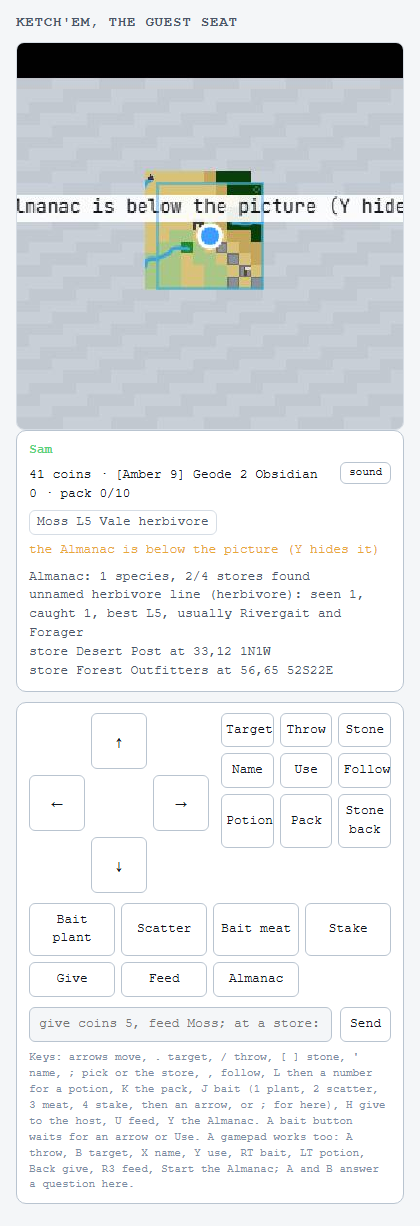
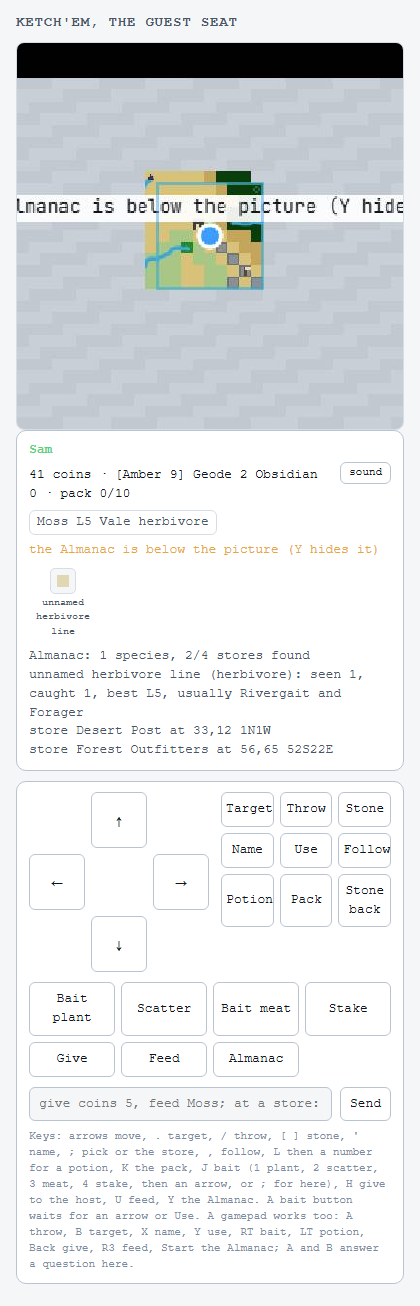
Ketch'em the Almanac's drawings on the guest's screen, and a test that the served guest page parses

diff --git a/src/main.js b/src/main.js
@@ -30,7 +30,7 @@ import { newPlayer, tryStep, strideStep, interact } from './ketchem/controls.js'
 import { initEncounters, initPlayer, encounterTick, targetsNear, throwStone, placeBait, pickPlant, nameCatch, freeName, freeSpeciesName, follow, recall, drainNews, news as pushNews } from './ketchem/encounter.js';
 import { initStores, marketTick, storeAt, shopLists, creatureCard, buy as buyItem, sell as sellItem, box as boxItem, giveSaid, usePotion, almanacLists, almanacText, packSummary, POTIONS } from './ketchem/market.js';
 import { storePanel, almanacPanel, closePanel, panelOpen, panelMode } from './ketchem/panel.js';
-import { hudTick } from './ketchem/hud.js';
+import { hudTick, drawGlyph } from './ketchem/hud.js';
 import { ask, asking, closeAsk, askWho, answerAsk } from './ketchem/ask.js';
 import { padPressed, padEdges, padKey, padArrowUp, PAD_PICK, START as PAD_START } from './ketchem/pad.js';
 import { guestSeated, seatName, seatGuest, unseatGuest } from './ketchem/guest.js';
@@ -991,7 +991,16 @@ function guestFrame(){   // their corner of the world: 33 x 33 tiles around them
 function guestState(){
   if(!guestSeated(K))return {name:null};var g=K.root,ps=packSummary(g);
   return {name:g.display,wallet:g.wallet,stones:g.stones,stone:g.stone,pack:ps.used+'/'+ps.cap,party:g.party.map(function(c){var k=creatureCard(c);return k.name+' L'+k.level+' '+k.elemental+' '+k.type;}),
-    msg:g.msg&&g.msgUntil>Date.now()?g.msg:'',store:guestStore(g),sounds:_gSounds,soundEpoch:_gSoundEpoch,almanac:_gAlmanac?almanacText(K,g):''};
+    msg:g.msg&&g.msgUntil>Date.now()?g.msg:'',store:guestStore(g),sounds:_gSounds,soundEpoch:_gSoundEpoch,almanac:_gAlmanac?almanacText(K,g):'',almanacGlyphs:_gAlmanac?almanacGlyphs():null};
+}
+// The Almanac's drawings for a guest on another screen: each species drawn as the panel draws it, as a small PNG, made
+// once per drawing (the cache is keyed by what the drawing depends on) and sent only while their Almanac is open.
+var _glyphPng=new Map(),_glyphCanvas=null;
+function almanacGlyphs(){
+  if(!_glyphCanvas){_glyphCanvas=document.createElement('canvas');_glyphCanvas.width=_glyphCanvas.height=26;}
+  return almanacLists(K,K.root).species.filter(function(e){return e.glyph;}).map(function(e){var key=JSON.stringify(e.glyph),src=_glyphPng.get(key);
+    if(!src){drawGlyph(_glyphCanvas,e.glyph,13);src=_glyphCanvas.toDataURL('image/png');if(_glyphPng.size>500)_glyphPng.clear();_glyphPng.set(key,src);}
+    return {name:e.nickname||e.scientific||('unnamed '+e.type+' line'),caught:e.caught,src:src};});
 }
 // What a guest on another screen hears: the sounds in their sight, checked every tick (a sound's window is a few ticks;
 // the link only posts five times a second), kept as the last eight with rising numbers.

diff --git a/visit/guest-link.test.js b/visit/guest-link.test.js
@@ -34,6 +34,12 @@ describe('the guest link', () => {
     expect(js).toContain('export function play'); expect(js).not.toMatch(/^import /m);
     expect(await (await fetch(guest + '/')).text()).toContain("from '/synth.js'");
   });
+  it('the guest page scripts parse (an escape the page template swallows would break the whole page)', async () => {
+    const page = await (await fetch(guest + '/')).text();
+    const classic = page.split('<script>')[1].split('</script>')[0];
+    const mod = page.split('<script type="module">')[1].split('</script>')[0].replace(/^import .*$/gm, '');
+    expect(() => new Function(classic)).not.toThrow(); expect(() => new Function(mod)).not.toThrow();
+  });
   it('the guest port has no host side', async () => {
     expect((await jpost(guest, '/host/open', { code: '123456' })).status).toBe(404);
   });

diff --git a/docs/04 Handoffs/2026-10-24 Ketch'em build handoff.md b/docs/04 Handoffs/2026-10-24 Ketch'em build handoff.md
@@ -101,6 +101,7 @@ public site, trading between saves.
   Critic (Sonnet): growl missing from oddsOf (fixed), hash contradicted 5.2 (fixed as above), fallbacks for missing maxAge / maxEnergy now mirror visit.js creatureCode, table lookups guarded with Object.hasOwn. For later steps: `oddsOf` answers for a fled creature too; the encounter machine must refuse the throw.
 - 2026-10-24 · step 3 (`src/ketchem/board.js` + `fog.js` + `render.js` + `board.worker.js`, two `drawWorld` hooks, `?ketchem=` boot path and `window.__wb.ketchem` in main.js, `scripts/ketchem-boards.mjs`; sim: `landCoverage` cached per genesis loop and `computeAridity` / `computeWaterDist` on index queues, byte-identical by fingerprint and by the harness; `seedLifeAt` and Root's `plant` refuse road tiles; flora cleared off roads and around stores at build) · gate GREEN (typecheck, lint 0 errors, full suite incl. 16 board tests, build) · harness = C2 baseline exactly · budget: continent mean 13.2 s / worst 19.3 s (10 seeds), archipelago at 45-60% land mean 11.4 s / worst 23.5 s under load (20 seeds, **9 island-store boards** by the sea-only metric), highlands mean 14.7 s (10 seeds; standalone 95% land 17-19 s): live generation, no pre-baked boards · **changed default for the owner: Archipelago land 45-60%, not 60-75%** (mechanics 15.1 note) · screenshots in `docs/04 Handoffs/img/2026-10-24-ketchem-step3/` · commit: see git log
   Spec readings recorded in the mechanics file (14.3-14.6, 15.1, 15.2, 16). Caught by the tests before shipping: a per-branch signpost search leaked diagonally into the next branch (8-connected roads), and a store revealed by the road rule counted as a road sighting for the next store, cascading reveals across the map. Open for step 4: the Hand is still on under fog; the fog is shared but nothing moves yet; store names are `<Biome> <Post>` with Post rotating by store index; signposts at a doorstep with only spurs beyond read empty (tooltip says "no stores this way").
+- 2026-10-27 · the Almanac's drawings on the guest's screen (mechanics 26) · gate GREEN (289/289, lint 0 errors, build) · rehearse15 38/38, adversary 0 · a parse test for the served guest page · not deployed · commit: see git log
 - 2026-10-27 · the guest's screen: sound and a store of buttons (mechanics 26; `src/ketchem/synth.js`) · gate GREEN (288/288, lint 0 errors, build) · rehearse15 37/37, rehearse16 21/21, rehearse14 35/35, adversary 0, fuzz seed 211 clean · not deployed · commit: see git log
   Critic (Sonnet), 0 blockers + 6 risks (sounds at speed, stale sounds, lost taps, look-alike buttons, touch audio, dead state), all taken.
 - 2026-10-27 · saves, the rest of 18.2 (Root's save / save as, autosave when Root leaves, the mirror delete, never-overwrite naming) · gate GREEN (284/284, lint 0 errors, build) · rehearse17 11/11 on a scratch relay · not deployed · commit: see git log

diff --git a/docs/02 Code/CodeMap.md b/docs/02 Code/CodeMap.md
@@ -2,6 +2,8 @@
 
 > 2026-10-25: Ketch'em step 9, the pen. In `growth.js`: `breedFee`, `offspringGenome` (midpoints with drift from `K.rng`, means, one parent's colour, vivid odds, gen + 1, the first parent's lineage), `breed(K, p, aName, bName)` (store tile, one kind, cooldown `bredAt`, the fee, `makeFauna` with the genome, into the cabinet, `p.naming`, the `bred` variant, a `bred` effect). `market.js` `shopLists` adds `pen` and `fee`; `panel.js` has the PEN tab (two checkboxes, the fee, Breed). `main.js` `acts.breed`; `src/visit.js` `breed` verb; `visit/modes.mjs` lists it. Test in `growth.test.js`.
 
+> 2026-10-27: Ketch'em the Almanac's drawings for a remote guest. `main.js`: `almanacGlyphs()` (each species' glyph drawn by hud.js `drawGlyph` into a 26 px canvas, PNG cached by the glyph's JSON), `guestState.almanacGlyphs` while their Almanac is open. `visit/guest-link.mjs`: `#almG` figures, `drawGlyphs(list)` (PNG data URLs only). `guest-link.test.js`: the served page's classic and module scripts must parse.
+
 > 2026-10-27: Ketch'em the guest's screen (mechanics 26). `src/ketchem/synth.js` (no imports): `audio`, `SOUNDS`, `play(name)`. `sound.js`: imports synth; `soundFor(K, e, t, p)`, `soundsDue(K, listeners, doneSet)`, `screenListeners(K)` (Kevin + a guest at this screen); `soundTick` uses both. `main.js`: `queueGuestSounds()` each loop tick (remote guest, own WeakSet, last eight numbered), `_gSoundEpoch`; `guestState` sends `store: guestStore(g)` (lists with `named`), `sounds`, `soundEpoch` (the shop text is gone). `visit/guest-link.mjs`: serves `/synth.js`; the page's `#snd` switch, `hearSounds(state)` / `resetSounds`, `drawStore` (rows keyed by label / button / command, numbers updated in place). Tests `guest.test.js` +3, `guest-link.test.js` +1.
 
 > 2026-10-27: Ketch'em saves, the rest of 18.2. `visit/modes.mjs`: the ketchem `save` tool (`as`); `visit/briefs/ketchem.md` a saves line. `src/visit.js`: case 'save' -> `hooks.ketchem.save(as)`; `depart` saves a named board after a Ketch'em visit; `mirrorSlots()` (GET /page/slots), `mirrorDelete(slot)`. `visit/relay.mjs`: POST /page/save/delete (slotFile-checked, stale-checked). `main.js`: `rootSave(as)` (refuses an unnamed plain save, a taken name, a save in flight; restores the name on a failed write), `slotTaken(n, mine)` (IndexedDB + mirror, case-blind), `slotName` adds " game" to Windows' reserved names, Kevin's first save checks the name, F9 delete calls `mirrorDelete`. Tests `visit.test.js` +1 expectation; `scripts/rehearsals/rehearse17.mjs`.

diff --git a/docs/02 Code/Engineering Lessons.md b/docs/02 Code/Engineering Lessons.md
@@ -13,6 +13,8 @@ Durable, reusable gotchas specific to Worldbuilder. Format: rule + why + Verifie
 
 - **An id counter rebuilt from one list forgets everything that lives outside it; prove a game with invariants, not with eyes.** The loader reconciled the creature-id counter from the wild fauna list, so after a load the next wild birth reused the id of a creature carried in a party, the cabinet or a bait: the wrong creature got named or followed. No rehearsal saw it; a scripted hostile playthrough with a per-scene invariant check (each creature in exactly one place, prompts point at owned creatures, holds have a reason, wallet finite) found it in one run. Rule: when state can leave a collection and come back (carried, held, staked), reserve its ids from every holder; and for any game or state machine, write the invariants once as a check function and run it after every scripted scene and every fuzz burst. [Verified: 2026-10-25]
 
+- **Code served from inside a template string is code nobody parses until a browser does: test that it parses.** The guest page lives in a JS template literal in `visit/guest-link.mjs`; a `\/` in a regex there became `/` in the served page and would have ended the regex early, breaking the page's whole script, while the server file itself parsed fine and every unit test passed. Lint happened to flag the useless escape; the guard is a test that fetches the page and runs `new Function` over each script (proven by putting the bug back). Rule: for any code emitted as a string (an inline page, a generated worker), add one test that parses the emitted code; write `[/]` rather than `\/` inside such strings. [Verified: 2026-10-27]
+
 - **A seat is not an identity: give every occupant its own id, and resolve owners across everyone who can hold the seat.** The Ketch'em guest first reused the second seat's player id ('root'), so everything stamped with that id (a bait's owner, a growl's target, queued news) followed the seat to whoever sat in it: Root's staked creature went to the guest, a stake was destroyed once nobody held the seat, and a load could merge Root and the guest into one record. Twenty tests and a 17-check rehearsal passed; a critic tracing every id reader found it. Rule: when a slot can change hands, ids belong to the occupants, never to the slot; a lookup searches the seated record and every waiting one. [Verified: 2026-10-26]
 
 ## Encoding

diff --git a/STATUS.md b/STATUS.md
@@ -2,6 +2,13 @@
 
 _Current truth. Overwritten each checkpoint. The newest handoff in `docs/04 Handoffs/` has the narrative._
 
+## Session 2026-10-27 (s) - Ketch'em the Almanac's drawings on the guest's screen - DONE, GATE GREEN
+Owner ask: "keep going". The last item with no owner decision in it (mechanics 26). **Not deployed**; nothing pushed.
+
+What the game does now: a guest on another screen sees each species' drawing in their Almanac, as Kevin's panel draws it, above the text.
+
+Gate: typecheck clean, lint 0 errors (31 warnings, baseline), 289/289 (guest-link.test.js +1: both scripts of the served guest page must parse), build green. The lint caught an escape the page's template string swallows, which would have broken the guest page's whole script; the new test fails on exactly that (checked by putting the bug back). No critic: a display-only change whose one risky part the test now guards. Rehearsal: rehearse15 38/38; adversary 0 findings.
+
 ## Session 2026-10-27 (r) - Ketch'em the guest's screen: sound and a store of buttons - DONE, GATE GREEN
 Owner ask: "keep building". Mechanics 26's own "not built" list: sound on the guest's screen and the store panel for a remote guest. **Not deployed**; nothing pushed.
 

diff --git a/docs/01 Design/Ketch'em Mechanics.md b/docs/01 Design/Ketch'em Mechanics.md
@@ -1332,5 +1332,7 @@ between the two pages. Readings, overturnable.
   synthesis, served by the link; a switch on their bar), and on a store tile the store is a panel of rows with Buy,
   Sell, Sell all, Box and Take buttons (the command line stays for breeding and anything else). An unnamed creature
   has no button until it is named. The shared screen's own sounds are for Kevin and a guest playing at it.
-- Not built: the Almanac's drawings for a remote guest (its text stands in), several guests at once. Bait, give, feed and the Almanac were added
+- The Almanac on the guest's screen shows each species' drawing (as the host's panel draws it) above its text
+  (added 2026-10-27).
+- Not built: several guests at once. Bait, give, feed and the Almanac were added
   2026-10-27; the link's input kinds are unchanged (keys, answers, commands).
